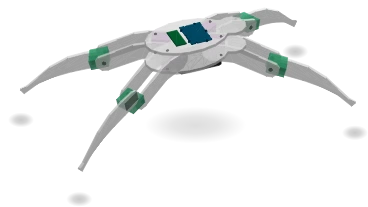
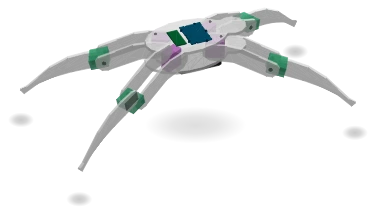
@ v2026.8.58 : l electronique embarquee est toujours la, les plaques restent derriere
- case « montrer l electronique embarquee » supprimee (attribut boards retire partout)
- empilement() : le decalage se calcule sur la profondeur qui decide du dessin
  (moyenne si translucide, [min,max] si opaque) et non plus sur la diagonale
- verify:araignee 75 controles (regression : plaques vs servos des pattes)

@

Changed region(s): [[0.3886, 0.2029, 0.5082, 0.3478], [0.538, 0.2029, 0.6576, 0.3188]]

diff --git a/testkablix/araignee-pico.py b/testkablix/araignee-pico.py
@@ -35,4 +35,4 @@ while True:
     pose(90, 90);   print("pattes tendues");     time.sleep(1)
     pose(90, 130);  print("patellas pliees");   time.sleep(1)
     pose(60, 130);  print("coxas en avant");    time.sleep(1)
-    pose(120, 130); print("coxas en arriere");  time.sleep(1)
+    pose(115, 130); print("coxas en arriere");  time.sleep(10)

diff --git a/todo.md b/todo.md
@@ -1,27 +1,35 @@
 # À faire
-1. *(rien en attente)*
+## Arraignée : 
+1. Si je veux rendre les cartes (pico et 16 servo) plus réaliste est ce que je te redonne le fichier svg de chaque carte ou est ce que je mappe une vue webp dessus ? Du reste prévois de pouvoir mapper une image sur les pièces (avec transparence ajustable)
+1. Les propriétés de l'araignée doivent être en français.
+1. Fais lui des yeux rouges
+1. Elle est trop petite, double sa taille (pareil pour la patte)et ajoute un paramètre pour les dessins qui donne la largeur souhaitée du systeme finis en pixels (une seule fois pour tout le système)
+1. Si on bloque sur la dernière position  telle que j'ai réglé les paramètres de araignne-pico, on peut voir que les pointes des tibias ne sont pas à la même hauteur et pourtant l'angle est le même. J'ai mois un sleep(10) pour matérialiser l'endroit
+1. Tu va mettre des menu déroulant dans ces propriétées (sur le modèle des composants mais par défaut tous repliés):
+    1. Rappel de l'adresse I²C tout en haut
+    1. Paramétrer carte 16 servomoteurs
+        1. Les 5 bit de réglage de l'adresse
+    1. Inverser les servomoteurs
+    1. Régler le 0 des servomoteurs
+    1. Paramètre des servomoteurs
+        1. impulsion à 0° (µs)
+        1. impulsion à 180° (µs)
+        1. Temps de rotation (s/tours)
 
-
-##L'arraignée :
-1. ✅ J'ai retouché le modèle *(v2026.8.46 — cinématique du genou refaite sur le nouveau dessin)*
-1. ✅ il y a des défaut de visualisation . Les cartes électroniques sont un peut recouvertes par le corps. *(v2026.8.46)*
-1. ✅ il faudrait pouvoir définir le 0 de chaque servo (0 à 360 ° positif ou négatif) *(v2026.8.49)*
-1. ✅ Fait des ombres diffuses *(v2026.8.46)*
-1. ✅ La patte n'a pas été remodélisée. Se plus il faut que les broches des servo soient identifiés. Tu mets donc un rectangle à coin arrondis autours de l'ensemble des 3 broches de connection de chaque servo avec écrit Coxa et Patella. Les trois broches apparaisent grace à un carré plein doré (de taille supérieurs à celui de masse). Reprends "connecteur-servo-patte" dans Composants2D.svg et respecte mes couleurs . *(v2026.8.48)*
-1. ✅ Tu renomeras partout hanche=coxa et genou = patella *(v2026.8.47)*
 ## Composants
-1. 
-1. ✅ **`onStartupFinished` supprimé, activation paresseuse** *(v2026.8.50 — validé au F5 par Frank)*
-
-## Dessin de l'arraignée 
-1. ✅ **Les quatre corrections de `Composants3D.svg` sont faites** (v2026.8.42) : quatre pastilles `hanche…` sur le corps, `genou-f` sur le fémur, `genou-t` sur le tibia, étiquette du servo de tibia au point décimal. Le robot monte : 1 corps, 4 fémurs, 4 tibias.
-2. ✅ **Plus rien à dessiner : la patte seule EST celle du robot** (v2026.8.48). Les profils `patte-femur-profil` / `patte-tibia-profil` ne sont plus attendus — `patte-element.mts` monte les assemblages `araignee-patte-femur` et `araignee-patte-tibia` de `Composants3D.svg`, comme les quatre pattes du robot, et n'importe plus `profils.mts` du tout. Plus une cote codée dans le composant.
-3. ✅ **Le corps en sandwich est dessiné ET branché** (v2026.8.44) : `araignee-corps`, `araignee-patte-femur` et `araignee-patte-tibia` de `Composants3D.svg` font le robot à l'écran, articulations comprises. Plus une cote dans le code.
-4. ⏳ **Le test `araignee-uno` est déplacé dans `A Examiner/testkablix/Arduino/araignee-uno/`** (sketch + .projix, 2 fichiers, non supprimés). Le robot EST une Pico W depuis la v2026.8.24 : il n'a plus de broches, on ne peut plus le piloter depuis une Uno. Frank tranche : à jeter, ou à garder en archive.
 
 # En réserve
 1. ⏳ Traduction FR du réglage `kablix.simulationWorker` (`package.nls.fr.json`) : sa description a changé avec le défaut activé — au lot de traductions d'avant publication.
 Les cinq lots du worker sont livrés (v2026.8.51 → v2026.8.55).
+
+# >>>>  v2026.8.58 — l'électronique embarquée est toujours là, et les plaques restent derrière
+
+1. ✅ **La case « montrer l'électronique embarquée » est SUPPRIMÉE** (Frank) : le corps est toujours dessiné ENTIER — batterie, PCA9685, Pico W. C'est le PMMA translucide qui les laisse voir, et un robot dont on cache la carte 16 servos n'explique plus rien. Attribut `boards` retiré partout : `araignee-element.mts` (constante `EMBARQUE`, propriété, constructeur, rendu), `catalog.mts`, `_capture-part.mjs`, `_diag-araignee.mjs`, `testkablix/_spec.mjs` (emplacements de Frank gardés), fiche `docs/fr/composants/araignee.md`.
+2. ✅ **Le vrai bug était dans `empilement()` (`iso3d.mts`), mesuré et corrigé** : le décalage vers l'avant se calculait entre les EXTRÊMES — la face la plus proche des pièces du dessous, la plus lointaine de la pièce à remonter — c'est-à-dire la **DIAGONALE** de la pièce, ~27 unités pour une plaque du corps. La batterie poussait la plaque du bas de +26,9, celle-ci poussait la plaque du haut d'autant, et les deux plaques finissaient **devant les servos des pattes**. Mesuré en Chrome (outil d'atelier `node_modules/.atelier/diag-profondeur.mjs`) : plaques à **72,65 et 111,09**, servos de fémur à 38,6 / 48,4 / 51,3 / **65,1**.
+3. ✅ **Le décalage se calcule maintenant sur la profondeur qui DÉCIDE du dessin** : une pièce translucide est peinte d'un bloc, donc un seul point (la moyenne de ses faces, comme `renderFaces` la range) ; une pièce opaque est peinte triangle par triangle, donc l'intervalle [min, max] de ses faces. Après correction : plaques à **49,8 et 56,1**, servos inchangés — le servo de la patte avant repasse devant. `alphaColor()` remplace l'ancien `alphaDe` privé et lit aussi bien `#rrggbbaa` (le dessin) que `rgba(…)` (ce que rend `shade`) ; `Empile` porte l'opacité de sa matière.
+4. ✅ **Banc `verify:araignee` : 75 contrôles** (72 avant). Les nouveaux vérifient qu'il n'y a plus de case dans le catalogue, que batterie et PCA9685 font partie du corps dessiné, que le circuit bleu de la carte 16 servos est bien dans le DOM sans rien cocher, et surtout — régression du bug — que **les plaques du corps ne recouvrent plus les servos des pattes** (profondeurs de rendu mesurées pièce par pièce). `YAW`, `legXf` et le type `Robot` sont exportés pour que le banc rejoue la vraie scène.
+5. ✅ Illustration recapturée (`node scripts/_capture-part.mjs araignee`, 368×207).
+6. ⏳ Fiche EN `docs/en/composants/araignee.md` : la ligne `boards` y est encore, retrait au lot de traductions d'avant publication.
 
 # >>>>  v2026.8.57 — le fil de simulation ne peut plus mourir en silence
 

diff --git a/docs/fr/composants/araignee.md b/docs/fr/composants/araignee.md
@@ -22,7 +22,6 @@ Catégorie de la palette : **Système**.
 |-----------|------|--------|
 | `ad0` … `ad5` | État des six pads d'adresse du PCA9685 embarqué (coché = pad **haut**) | tous cochés |
 | `speed` | Temps d'un tour complet (360°) à pleine vitesse (s), 0 = mouvement instantané | `2` |
-| `boards` | Montrer l'électronique embarquée (PCA9685, batterie) | décoché |
 | `revcoxa0` … `revpatella3` | Servo monté **à l'envers** : la même consigne le fait tourner de l'autre côté | décoché |
 | `zerocoxa0` … `zeropatella3` | Angle **dessiné** quand le programme envoie 0° à ce servo (−360 à +360°) | `0` |
 
@@ -61,7 +60,7 @@ Les pattes de droite sont montées **en miroir** de celles de gauche, comme sur 
 - Ouvrez un bus I²C dans votre programme (`I2C(0, sda=Pin(0), scl=Pin(1))`) : c'est le bus **interne** du robot, il rejoint le PCA9685 embarqué quels que soient les numéros de broches choisis.
 - Pilotez les canaux comme ceux d'un PCA9685 posé sur la planche : réglez le prescaler à 50 Hz, puis écrivez l'impulsion voulue (500 µs = 0°, 1500 µs = 90°, 2500 µs = 180°).
 - Pour n'animer qu'une patte, il suffit d'écrire ses deux canaux : un canal jamais écrit laisse son articulation immobile.
-- Cochez **Montrer l'électronique embarquée** pour voir le PCA9685 et la batterie dans le corps (utile pour expliquer le montage, inutile pour la simulation).
+- L'électronique embarquée (Pico W, PCA9685, batterie) est **toujours dessinée** : le châssis de PMMA translucide la laisse voir, comme sur le vrai robot.
 
 Test d'exemple : `araignee-pico` (dossier `testkablix`). Pas de test Arduino : le robot est une Pico W, il ne se programme pas depuis une Uno.
 
